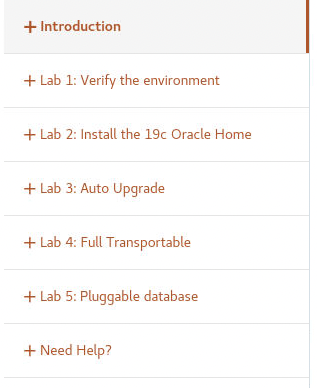
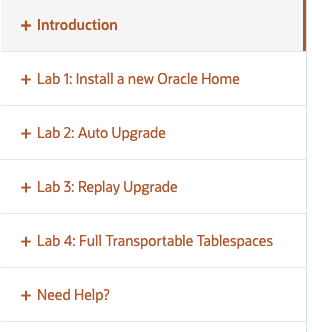
Minor changes to the workshop (#268)
* Initial creation

* WMS683: path bug and new LL layout

* WMS683 - Removed MacOS ._ files

* WMS683 - Remove uppercase files

* Autoupgrade Linted

* Changed blocks

* Updated introduction and copy fields

* Update verify-the-environment.md

* Updates for LL Lint checker

* Update for Lint checker

* Updates for Lint checker

* Update autoupgrade.md

* Update autoupgrade.md

* Initial version 23ai

* New home changes

* Update install-23ai-oh.md

* Update install-23ai-oh.md

* Update autoupgrade.md

* Update manifest.json

* Update autoupgrade.md

* Update replay-upgrade.md

* Update replay-upgrade.md

* Update full-transportable.md

* Update full-transportable.md

* Update full-transportable.md

* Lintchecker changes

* Update install-23ai-oh.md

* Typos from Francois

* Update introduction.md

* Updated to 26ai

* Changed SQL*Plus output

* Abbreviated menus

* Francois comments and datapatch

* Update replay-upgrade.md

* Updated images and changes for Lintchecker

* Last mistakes and typos updates

* Updates final comments

* Added spaces and Workshop Time entry

diff --git a/upgrade-to-ai-db-26ai/introduction/introduction.md b/upgrade-to-ai-db-26ai/introduction/introduction.md
@@ -2,11 +2,13 @@
 
 ## Introduction
 
-**Oracle AI Database 26ai** is the next long-term release version after the current long-term release version 19c. It will be supported for at least 5 years after the initial release of your platform. After this, "Extended Support" and "Sustaining Support" will be available. This hands-on workshop focuses on **upgrading your environment to version 23.26 or higher (also known as the Oracle AI Database 26ai)** demonstrating three scenarios that you can use (both on-premises and in the cloud) to upgrade your environment to database version 23.26 (Oracle AI Database 26ai) in a Container Architecture (Multitenant) setup.
+**Oracle AI Database 26ai** is the next long-term release version after the current long-term release version 19c. It will be supported for at least 5 years after the initial release of your platform. After this, "Extended Support" and "Sustaining Support" will be available.
+
+This hands-on workshop focuses on **upgrading your environment to version 23.26 or higher (also known as the Oracle AI Database 26ai)** demonstrating three scenarios that you can use (both on-premises and in the cloud) to upgrade your environment to database version 23.26 (Oracle AI Database 26ai) in a Container Architecture (Multitenant) setup.
 
 This hands-on lab can be run standalone, but be aware that individual steps might take time to complete. Usually, the hands-on lab is delivered as part of the PTS "Oracle AI Database 26ai Upgrade Workshop", and uses the time you need to wait with explanations and additional information.
 
-Estimated time: 3 hours.
+Estimated Workshop Time: 3 hours.
 
 ### Objectives
 
@@ -18,11 +20,29 @@ Estimated time: 3 hours.
 ### Prerequisites
 
 - A provisioned LiveLabs Environment
-  - The labs have been set up to work with a "noVNC" remote desktop environment using an HTML5-compatible browser. This setup will work with most proxy systems.
-  - On the Attendee Page, you should see the noVNC URL
+    - The labs have been set up to work with a "noVNC" remote desktop environment using an HTML5-compatible browser. This setup will work with most proxy systems.
+    - On the Attendee Page in the Livelabs reservation system, click on the "View Login Info":
+
+      ![View link on the Livelabs Reservation page](./images/view-option-livelabs.png)
+
+    - After clicking on the "View Login Info" link, click on the "Launch Desktop' button in the pop-up screen:
+
+      ![Launch Desktop button in the Livelabs Reservation drawer window](./images/launch-desktop-button.png)
+
 - If you want to run (parts) of the workshop using a direct SSH connection, you need direct access to the Internet or a proxy that supports tunneling.
-  - All labs (except lab 1) can be executed using SSH only.
-  - The setup of SSH for your keys (password authentication is not allowed) is not described in the lab, but if you know how it works, you can set it up and use it.
+    - All labs (except lab 1) can be executed using SSH only.
+    - The setup of SSH for your keys (password authentication is not allowed) is not described in the lab, but if you know how it works, you can set it up and use it.
+    - When adding your own SSH key to the image, make sure it is a strong key (SHA-2 with at least 4096 bytes or an ED25519 key)
+
+### Useful hints and tips
+
+- All steps using SQL*Plus will also work using SQLcl by using the `sql` command instead of `sqlplus`
+    - Exception is the running of the `utlrp.sql` script, this seems to rely on Sql*Plus specific functionality
+- When executing the steps in the Workshop, we suggest to drag the workshop instructions on your screen to the left and add Terminal window next to the instructions for easy copy-and-paste
+    - Every command for the command line examples can be copied using the `copy` button in the right top of the grey area; it will only copy the command you need to execute, not the rest of the text
+    - Copying and pasting can be done using your right mouse button but also works when using the following key combinations: Copy: *SHIFT-CTRL-C*, Paste: *SHIFT-CTRL-V*
+- You can use the F11 key (or similar on your laptop) to make the screen using the full size of your laptop for easier reading
+    - If you have a very large screen (more than 14") you can also change the behaviour of the noVNC window by changing the URL from `resize=remote` to `resize=scale`    
 
 ## Task 1: Access the labs
 
@@ -36,8 +56,10 @@ Estimated time: 3 hours.
 
 - You may close the menu by clicking the ![Close menu button](./images/menu-button.png) again.
 
+
+
 You may now **proceed to the next lab**.
 
 ## Acknowledgements
 
-- **Author** - Robert Pastijn, Database Product Management, PTS EMEA - January 2026
+- **Author** - Robert Pastijn, Database Product Management, PTS EMEA - March 2026

diff --git a/upgrade-to-ai-db-26ai/lab1-install-new-home/install-new-oh.md b/upgrade-to-ai-db-26ai/lab1-install-new-home/install-new-oh.md
@@ -27,14 +27,14 @@ We have already downloaded the software for you in this workshop. You need to ad
 
 ### Step 1: Install the 26ai pre-install RPM on the system
 
+If there is not an Terminal window open yet to execute commands on the command line, open a new terminal button by clicking on "Activities" in the left top of your noVNC remote desktop screen. After this, click on the Terminal option. Position the Chrome browser and the Terminal window side by side for easy copy-and-past actions.
+
 An easy way to make sure all system parameters are correct in a Linux environment is to use the preinstall rpm package. For non-Linux environments, please check the manual for the appropriate environment values. We have already downloaded the preinstall rpm in the environment, so you can simply install it.
 
 Run the installer to start the database software installation. The user executing the command should be then 'oracle' user.
 
 ```text
-$ <copy>sudo dnf -y localinstall /source/oracle-ai-database-preinstall-26ai-1.0-1.el8.x86_64.rpm </copy>
-
-[oracle@26ai-upgrade:~]$ sudo dnf -y localinstall /source/oracle-ai-database-preinstall-26ai-1.0-1.el8.x86_64.rpm
+[oracle@26ai-upgrade:~]$ <copy>sudo dnf -y localinstall /source/oracle-ai-database-preinstall-26ai-1.0-1.el8.x86_64.rpm </copy>
 
 Last metadata expiration check: 4:26:40 ago on Tue 06 Jan 2026 10:17:30 AM GMT.
 Dependencies resolved.
@@ -73,38 +73,38 @@ The software downloaded from the Oracle network is a zip file for your operating
 
 1. We need to create a new location for the software. Execute the following command as an oracle user after starting a new terminal window in your image:
 
-```text
-<copy>mkdir -p /u01/oracle/product/26ai/dbhome</copy>
-```
+    ```text
+    <copy>mkdir -p /u01/oracle/product/26ai/dbhome</copy>
+    ```
 
 1. We can now use this new location to unzip our software.
 
-   ```text
-   <copy>cd /u01/oracle/product/26ai/dbhome</copy>
-   ```
+    ```text
+    <copy>cd /u01/oracle/product/26ai/dbhome</copy>
+    ```
 
-   ```text
-   $ <copy>unzip /source/db_home*.zip</copy>
+    ```text
+    $ <copy>unzip /source/db_home*.zip</copy>
 
-   ...
-     python/bin/python      -> python3
-     python/bin/python3     -> python3.13
-     python/bin/python3-config -> python3.13-config
-     python/lib/libcrypto.so -> libcrypto.so.3
-     python/lib/libffi.so   -> libffi.so.8.1.2
-     python/lib/libffi.so.8 -> libffi.so.8.1.2
-     python/lib/libpython3.13.so -> libpython3.13.so.1.0
-     python/lib/libsqlite3.so -> libsqlite3.so.3.50.2
-     python/lib/libsqlite3.so.0 -> libsqlite3.so.3.50.2
-     python/lib/libssl.so   -> libssl.so.3
-     python/lib/libz.so     -> libz.so.1.3.1
-     python/lib/libz.so.1   -> libz.so.1.3.1
-     python/lib/pkgconfig/python3-embed.pc -> python-3.13-embed.pc
-     python/lib/pkgconfig/python3.pc -> python-3.13.pc
+    ...
+      python/bin/python      -> python3
+      python/bin/python3     -> python3.13
+      python/bin/python3-config -> python3.13-config
+      python/lib/libcrypto.so -> libcrypto.so.3
+      python/lib/libffi.so   -> libffi.so.8.1.2
+      python/lib/libffi.so.8 -> libffi.so.8.1.2
+      python/lib/libpython3.13.so -> libpython3.13.so.1.0
+      python/lib/libsqlite3.so -> libsqlite3.so.3.50.2
+      python/lib/libsqlite3.so.0 -> libsqlite3.so.3.50.2
+      python/lib/libssl.so   -> libssl.so.3
+      python/lib/libz.so     -> libz.so.1.3.1
+      python/lib/libz.so.1   -> libz.so.1.3.1
+      python/lib/pkgconfig/python3-embed.pc -> python-3.13-embed.pc
+      python/lib/pkgconfig/python3.pc -> python-3.13.pc
 
-[oracle@26ai-upgrade:/u01/oracle/product/26ai/dbhome]$
+    [oracle@26ai-upgrade:/u01/oracle/product/26ai/dbhome]$
 
-````
+    ````
 
 We will not install any patches during this workshop; therefore, we can continue to prepare the operating system environment.
 

diff --git a/upgrade-to-ai-db-26ai/lab2-autoupgrade/autoupgrade.md b/upgrade-to-ai-db-26ai/lab2-autoupgrade/autoupgrade.md
@@ -327,7 +327,7 @@ In this example we will put 3 different upgrade scenarios in a single configurat
 
 1. Check the overall status of the jobs
 
-    In the output of the Autoupgrade tool provided, you can see the location of a summary report. It is available both in HTML format and in text format. Using the following command, you can view the output of the overall status in your Chrome browser:
+    In the output of the Autoupgrade tool provided, you can see the location of a summary report. It is available both in HTML format and in text format. Using the following command, you can view the output of the overall status in, for example, your Firefox browser:
 
     ```text
     <copy>firefox /u01/autoupgrade/log/cfgtoollogs/upgrade/auto/status/status.html</copy>
@@ -360,7 +360,7 @@ In this example we will put 3 different upgrade scenarios in a single configurat
     upg>
     ```
 
-1. The tool will now upgrade the requested databases in the background. You can request the status by executing the 'lsj' command:
+1. The tool will now upgrade the requested databases in the background. You can request the status by executing the List Jobs (`lsj`) command:
 
     ```text
     upg> <copy>lsj</copy>

diff --git a/upgrade-to-ai-db-26ai/lab3-replay-upgrade/replay-upgrade.md b/upgrade-to-ai-db-26ai/lab3-replay-upgrade/replay-upgrade.md
@@ -194,7 +194,9 @@ Version 19.21.0.0.0
     
     This command will seem to hang for about 15 minutes. 
     
-2. While the upgrade is running, you can open another (terminal) session and check the progress of the upgrade in the alert log of the database. Please note that the first messages will only appear about 6 minutes after the alter command has been started and that initially, some errors might be displayed (which will be solved automatically during the upgrade):
+2. While the upgrade is running, you can open another (terminal) session and check the progress of the upgrade in the alert log of the database. To open another terminal session, click File and choose for New Tab or New Window. After this you can execute the command below.
+
+    Please note that the first messages will only appear about 6 minutes after the alter command has been started and that initially, some errors might be displayed (which will be solved automatically during the upgrade):
 
     ```text
     $ <copy>tail -f /u01/oracle/diag/rdbms/db26ai/DB26ai/trace/alert_DB26ai.log</copy>

diff --git a/upgrade-to-ai-db-26ai/lab4-full-transportable/full-transportable.md b/upgrade-to-ai-db-26ai/lab4-full-transportable/full-transportable.md
@@ -78,7 +78,7 @@ The FTTS functionality requires an existing (pluggable) database as a target. Fo
     $ <copy>sqlplus / as sysdba</copy>
     ```
 
-    ### Create a new PDB called PDB19C02 ###
+    ### Create a new PDB called TTT01 ###
 
 1. Please create a new PDB using the following command:
 
